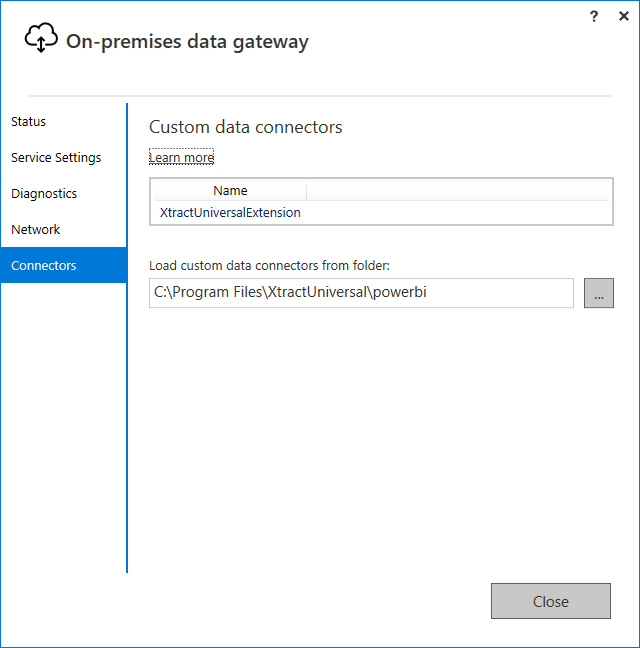
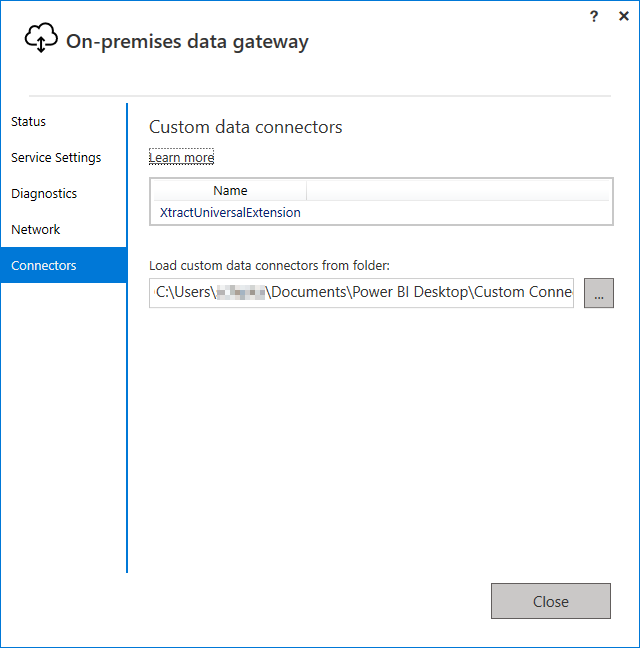
XU: Power BI Gateway correction

Changed region(s): [[0.2188, 0.4321, 0.9062, 0.463]]

diff --git a/content/_en/xtract-universal/destinations/Power-BI-Connector.md b/content/_en/xtract-universal/destinations/Power-BI-Connector.md
@@ -72,10 +72,10 @@ For installing the Power BI Custom Connector follow the steps under *Manul Setup
 
 ### Manual Setup 
 When using *Power BI Desktop*:
-1. Check if the directory *[Documents]\Power BI Desktop\Custom Connectors* exists.
+1. Check if the directory `[Documents]\Power BI Desktop\Custom Connectors` exists.
 2. Create this directory if it doesn't exist.
 3. Open the *powerbi* folder located in the Xtract Univesal installation directory.
-4. Copy the *XtractUniversalExtension.pqx* file to *[Documents]\Power BI Desktop\Custom Connectors*.
+4. Copy the *XtractUniversalExtension.pqx* file to `[Documents]\Power BI Desktop\Custom Connectors`.
 5. Restart Power BI.
 6. Change the security level for [Data Extensions](https://docs.microsoft.com/en-us/power-bi/desktop-connector-extensibility#data-extension-security) in Power BI to *Allow any extension to be load without validation or warning*. <br>
 Otherwise the *Xtract Universal* datasource will not be visible within Power BI.
@@ -86,7 +86,7 @@ Otherwise the *Xtract Universal* datasource will not be visible within Power BI.
 ### Automatic Setup
 1. Open the *powerbi* folder located in the Xtract Univesal installation directory.
 2. Run the *install-connector* PowerShell script. <br>
-This script copies the *XtractUniversalExtension.pqx* file to the *[Documents]\Power BI Desktop\Custom Connectors* folder. The script creates the folder first if it doesn't exist.
+This script copies the *XtractUniversalExtension.pqx* file to the `[Documents]\Power BI Desktop\Custom Connectors` folder. The script creates the folder first if it doesn't exist.
 3. Run the *trust-connector* PowerShell script. <br>
 This script modifies the registry at `HKLM:\SOFTWARE\Policies\Microsoft\Power BI Desktop\`. The script adds or modifies the registry value *TrustedCertificateThumbprints* with the thumbprint of the *XtractUniversalExtension.pqx* file. This procedure follows Microsoft's recommendations for [trusting third-party connectors](https://docs.microsoft.com/en-us/power-bi/desktop-trusted-third-party-connectors).
 
@@ -146,11 +146,12 @@ The connection of the Power BI Service requires the following components:
 To set up the on-premisess Data Gateway using the Power BI Custom Connector, follow the steps below.
 
 {: .box-note }
-**Note:** The connection to Xtract Universal can be created using Power Query M-script or Power BI Custom Connector. Using Power Query M-script does not require further configuration.
+**Note:** The connection to Xtract Universal can be created using Power Query M-script or Power BI Custom Connector. 
+Using Power Query M-script does not require further configuration.
 
 1. Install the on-premisess Data Gateway on the Xtract Universal application server.
 2. Configure the Data Gateway, see [Use the on-premises data gateway app](https://docs.microsoft.com/en-us/data-integration/gateway/service-gateway-app).
-3. Switch to the *Connectors* tab and define the path to the Power BI Custom Connector, e.g. `C:\Program Files\XtractUniversal\powerbi`.<br> The *XtractUniversalExtension* will then be displayed as a Custom Data Connector.
+3. Switch to the *Connectors* tab and define the path to the Power BI Custom Connector in `*[Documents]\Power BI Desktop\Custom Connectors*`.<br> The *XtractUniversalExtension* will then be displayed as a Custom Data Connector.
 ![Data-Gateway Connectors](/img/content/xu/data-gateway-connectors.png){:class="img-responsive"}
 
 

diff --git a/content/_de/xtract-universal/destinationen/Power-BI-Connector.md b/content/_de/xtract-universal/destinationen/Power-BI-Connector.md
@@ -69,9 +69,9 @@ Der Power BI Connector wurde entsprechend den Microsoft Richtlinien zum Erstelle
 
 ### Power BI Custom Connector manuell einrichten
 Wenn Sie die Anwendung *Power BI Desktop* verwenden, beachten Sie Folgendes: 
-1. Prüfen Sie, ob das Verzeichnis *[Documents]\Power BI Desktop\Custom Connectors* existiert.
+1. Prüfen Sie, ob das Verzeichnis `[Documents]\Power BI Desktop\Custom Connectors` existiert.
 2. Erstellen Sie dieses Verzeichnis, falls es nicht existiert.
-3. Kopieren Sie die Datei *XtractUniversalExtension.pqx* in das Verzeichnis *[Documents]\Power BI Desktop\Custom Connectors*.
+3. Kopieren Sie die Datei *XtractUniversalExtension.pqx* in das Verzeichnis `[Documents]\Power BI Desktop\Custom Connectors`.
 4. Starten Sie Power BI neu. <br>
 5. Ändern Sie die Sicherheitsstufe in der Option [Datenerweiterung](https://docs.microsoft.com/de-de/power-bi/desktop-connector-extensibility#data-extension-security) innerhalb von Power BI  auf *Alle Erweiterungen ohne Überprüfung oder Warnung laden* (Allow any extension to be load without validation or warning). <br>
 Andernfalls wird die Datenquelle *Xtract Universal* in Power BI nicht angezeigt.
@@ -81,7 +81,7 @@ Andernfalls wird die Datenquelle *Xtract Universal* in Power BI nicht angezeigt.
 ### Power BI Custom Connector automatisch einrichten
 1. Öffnen Sie den *powerbi* Ordner, der sich im Installationsverzeichniss von Xtract Universal befindet.
 2. Führen Sie das PowerShell Skript *install-connector* aus. <br>
-Dieses Skript kopiert die *XtractUniversalExtension.pqx* Datei in den Ordner *[Documents]\Power BI Desktop\Custom Connectors*.
+Dieses Skript kopiert die *XtractUniversalExtension.pqx* Datei in den Ordner `[Documents]\Power BI Desktop\Custom Connectors`.
 Falls der Ordner nicht existiert, wird er neu angelegt.
 3. Führen Sie das PowerShell Skript *trust-connector* aus.<br>
 Dieses Skript modifiziert die Registry unter `HKLM:\SOFTWARE\Policies\Microsoft\Power BI Desktop`.
@@ -148,7 +148,7 @@ Befolgen Sie die folgenden Schritte, um das On-Premisess Data Gateway mittels Po
 
 1. Installieren Sie das On-Premisess Data Gateway auf dem Xtract Universal Anwendungsserver.
 2. Konfigurieren Sie das Data Gateway, siehe [Use the On-Premisess data gateway app](https://docs.microsoft.com/de-de/data-integration/gateway/service-gateway-app).
-3. Wechseln Sie in den Tab *Connectors* und hinterlegen Sie den Pfad zum Power BI Custom Connector, z.B. `C:\Program Files\XtractUniversal\powerbi`.<br> Die *XtractUniversalExtension* wird anschließend als Custom Data Connector angezeigt.
+3. Wechseln Sie in den Tab *Connectors* und hinterlegen Sie den Pfad zum Power BI Custom Connector in `[Documents]\Power BI Desktop\Custom Connectors`.<br> Die *XtractUniversalExtension* wird anschließend als Custom Data Connector angezeigt.
 ![Data-Gateway Connectors](/img/content/xu/data-gateway-connectors.png){:class="img-responsive"}
 
 
